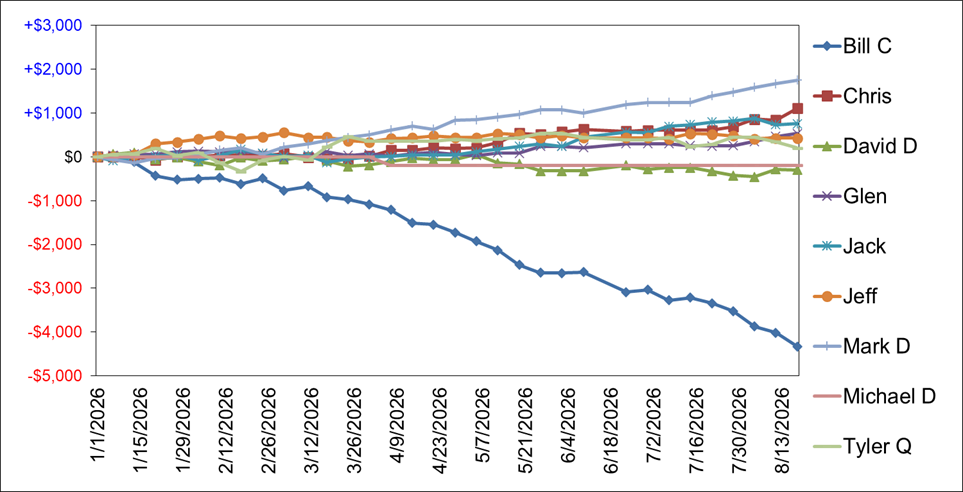
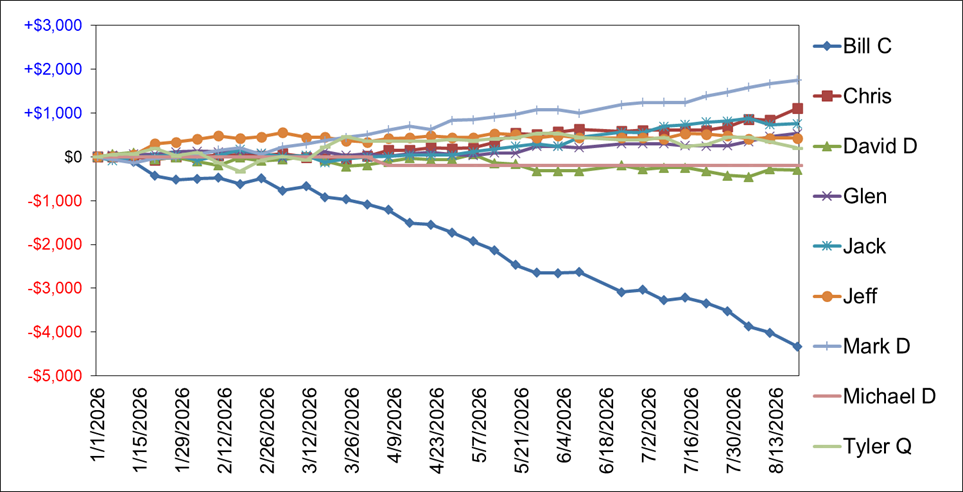
Add files via upload

diff --git a/attendance.html b/attendance.html
@@ -30,7 +30,7 @@
    <tr><td class="name" width=25%><a href="bill_c.html">Bill C</a></td>
       <td class="data1" width=25%>312 (26.6%)</td>
    <td class="data2" width=25%>25-Jun-2019</td>
-   <td class="data3" width=25%>18-Aug-2026</td></tr>
+   <td class="data3" width=25%>20-Aug-2026</td></tr>
    <tr><td class="name" width=25%><a href="bill_l.html">Bill L</a></td>
       <td class="data1" width=25%>452 (38.5%)</td>
    <td class="data2" width=25%>27-Jul-2004</td>
@@ -42,7 +42,7 @@
    <tr><td class="name" width=25%><a href="chris.html">Chris</a></td>
       <td class="data1" width=25%>514 (43.8%)</td>
    <td class="data2" width=25%>20-Aug-2013</td>
-   <td class="data3" width=25%>18-Aug-2026</td></tr>
+   <td class="data3" width=25%>20-Aug-2026</td></tr>
    <tr><td class="name" width=25%><a href="dave_ham.html">Dave Ham.</a></td>
       <td class="data1" width=25%>18 &nbsp;(1.5%)</td>
    <td class="data2" width=25%>07-Aug-2018</td>
@@ -58,7 +58,7 @@
    <tr><td class="name" width=25%><a href="david_d.html">David D</a></td>
       <td class="data1" width=25%>290 (24.7%)</td>
    <td class="data2" width=25%>05-Nov-2019</td>
-   <td class="data3" width=25%>18-Aug-2026</td></tr>
+   <td class="data3" width=25%>20-Aug-2026</td></tr>
    <tr><td class="name" width=25%><a href="frank.html">Frank</a></td>
       <td class="data1" width=25%>84 &nbsp;(7.2%)</td>
    <td class="data2" width=25%>03-Jan-2001</td>
@@ -66,7 +66,7 @@
    <tr><td class="name" width=25%><a href="glen.html">Glen</a></td>
       <td class="data1" width=25%>677 (57.7%)</td>
    <td class="data2" width=25%>16-Sep-2008</td>
-   <td class="data3" width=25%>18-Aug-2026</td></tr>
+   <td class="data3" width=25%>20-Aug-2026</td></tr>
    <tr><td class="name" width=25%><a href="grant.html">Grant</a></td>
       <td class="data1" width=25%>2 &nbsp;(0.2%)</td>
    <td class="data2" width=25%>09-Apr-2024</td>
@@ -82,7 +82,7 @@
    <tr><td class="name" width=25%><a href="jack.html">Jack</a></td>
       <td class="data1" width=25%>152 (12.9%)</td>
    <td class="data2" width=25%>15-Feb-2022</td>
-   <td class="data3" width=25%>18-Aug-2026</td></tr>
+   <td class="data3" width=25%>20-Aug-2026</td></tr>
    <tr><td class="name" width=25%><a href="jason.html">Jason</a></td>
       <td class="data1" width=25%>206 (17.5%)</td>
    <td class="data2" width=25%>15-Jul-2008</td>
@@ -126,7 +126,7 @@
    <tr><td class="name" width=25%><a href="mark_d.html">Mark D</a></td>
       <td class="data1" width=25%>1147 (97.7%)</td>
    <td class="data2" width=25%>03-Jan-2001</td>
-   <td class="data3" width=25%>18-Aug-2026</td></tr>
+   <td class="data3" width=25%>20-Aug-2026</td></tr>
    <tr><td class="name" width=25%><a href="mark_h.html">Mark H</a></td>
       <td class="data1" width=25%>324 (27.6%)</td>
    <td class="data2" width=25%>08-Jan-2001</td>
@@ -202,7 +202,7 @@
    <tr><td class="name" width=25%><a href="tyler_q.html">Tyler Q</a></td>
       <td class="data1" width=25%>146 (12.4%)</td>
    <td class="data2" width=25%>26-Jul-2022</td>
-   <td class="data3" width=25%>18-Aug-2026</td></tr>
+   <td class="data3" width=25%>20-Aug-2026</td></tr>
    <tr><td class="name" width=25%><a href="violet.html">Violet</a></td>
       <td class="data1" width=25%>10 &nbsp;(0.9%)</td>
    <td class="data2" width=25%>24-Jun-2008</td>

diff --git a/span.html b/span.html
@@ -27,7 +27,7 @@
 <tr valign="bottom"><th>&nbsp;</th><th>Best span</th><th>Worst span</th></tr>
    <tr><td class="name"><a href="bill_c.html">Bill C</a></td>
        <td class="data1">27-Jun-2023&nbsp;through&nbsp;05-Jul-2023&nbsp;&nbsp;&nbsp;&nbsp;(+$460.00)</td>
-       <td class="data2">28-Jan-2020&nbsp;through&nbsp;18-Aug-2026&nbsp;(&#8209;$27,258.00)</td></tr>
+       <td class="data2">28-Jan-2020&nbsp;through&nbsp;20-Aug-2026&nbsp;(&#8209;$27,258.00)</td></tr>
    <tr><td class="name"><a href="bill_l.html">Bill L</a></td>
        <td class="data1">05-Mar-2013&nbsp;through&nbsp;21-Jul-2015&nbsp;&nbsp;(+$3,045.00)</td>
        <td class="data2">29-Sep-2009&nbsp;through&nbsp;27-Feb-2013&nbsp;&nbsp;(&#8209;$1,819.00)</td></tr>
@@ -35,7 +35,7 @@
        <td class="data1">25-Jun-2024&nbsp;through&nbsp;27-Aug-2024&nbsp;&nbsp;&nbsp;&nbsp;(+$308.00)</td>
        <td class="data2">07-Jan-2025&nbsp;through&nbsp;11-Nov-2025&nbsp;&nbsp;&nbsp;&nbsp;(&#8209;$445.00)</td></tr>
    <tr><td class="name"><a href="chris.html">Chris</a></td>
-       <td class="data1">26-Nov-2013&nbsp;through&nbsp;18-Aug-2026&nbsp;&nbsp;(+$7,661.00)</td>
+       <td class="data1">26-Nov-2013&nbsp;through&nbsp;20-Aug-2026&nbsp;&nbsp;(+$7,661.00)</td>
        <td class="data2">08-Mar-2022&nbsp;through&nbsp;21-Nov-2022&nbsp;&nbsp;&nbsp;&nbsp;(&#8209;$635.00)</td></tr>
    <tr><td class="name"><a href="dave_ham.html">Dave Ham.</a></td>
        <td class="data1">28-Jan-2020&nbsp;through&nbsp;04-Feb-2020&nbsp;&nbsp;&nbsp;&nbsp;(+$169.00)</td>
@@ -53,7 +53,7 @@
        <td class="data1">09-Mar-2004&nbsp;through&nbsp;09-Mar-2004&nbsp;&nbsp;&nbsp;&nbsp;(+$150.00)</td>
        <td class="data2">12-Feb-2001&nbsp;through&nbsp;02-Mar-2004&nbsp;&nbsp;(&#8209;$1,287.75)</td></tr>
    <tr><td class="name"><a href="glen.html">Glen</a></td>
-       <td class="data1">10-Feb-2009&nbsp;through&nbsp;18-Aug-2026&nbsp;(+$17,378.00)</td>
+       <td class="data1">10-Feb-2009&nbsp;through&nbsp;20-Aug-2026&nbsp;(+$17,378.00)</td>
        <td class="data2">04-Apr-2023&nbsp;through&nbsp;23-May-2023&nbsp;&nbsp;&nbsp;&nbsp;(&#8209;$465.00)</td></tr>
    <tr><td class="name"><a href="grant.html">Grant</a></td>
        <td class="data1">09-Jul-2024&nbsp;through&nbsp;09-Jul-2024&nbsp;&nbsp;&nbsp;&nbsp;&nbsp;(&#8209;$85.00)</td>
@@ -98,7 +98,7 @@
        <td class="data1">01-Sep-2011&nbsp;through&nbsp;01-Sep-2011&nbsp;&nbsp;&nbsp;&nbsp;&nbsp;(&#8209;$99.00)</td>
        <td class="data2">25-Aug-2011&nbsp;through&nbsp;01-Sep-2011&nbsp;&nbsp;&nbsp;&nbsp;(&#8209;$257.00)</td></tr>
    <tr><td class="name"><a href="mark_d.html">Mark D</a></td>
-       <td class="data1">26-Mar-2001&nbsp;through&nbsp;18-Aug-2026&nbsp;(+$25,621.50)</td>
+       <td class="data1">26-Mar-2001&nbsp;through&nbsp;20-Aug-2026&nbsp;(+$25,621.50)</td>
        <td class="data2">11-Dec-2012&nbsp;through&nbsp;08-Aug-2013&nbsp;&nbsp;&nbsp;&nbsp;(&#8209;$488.00)</td></tr>
    <tr><td class="name"><a href="mark_h.html">Mark H</a></td>
        <td class="data1">11-Oct-2005&nbsp;through&nbsp;27-Dec-2005&nbsp;&nbsp;&nbsp;&nbsp;(+$330.00)</td>

diff --git a/bill_c.html b/bill_c.html
@@ -52,7 +52,7 @@
    <tr><td class="title"><a href="attendance.html">First Card Night attended</a></td>
        <td class="data">25-Jun-2019</td></tr>
    <tr><td class="title"><a href="attendance.html">Last Card Night attended</a></td>
-       <td class="data">18-Aug-2026</td></tr>
+       <td class="data">20-Aug-2026</td></tr>
    <tr><td class="title"><a href="miss.html">Longest streak without missing a Card Night</a></td>
        <td class="data">97</td></tr>
    <tr><td class="title_bottom"><a href="miss.html">Longest streak of missed Card Nights between attended Card Nights</a></td>
@@ -99,7 +99,7 @@
    <tr><td class="title"><a href="span.html">Best span</a></td>
       <td class="data">27-Jun-2023&nbsp;through&nbsp;05-Jul-2023 (+$460.00)</td></tr>
    <tr><td class="title_bottom"><a href="span.html">Worst span</a></td>
-       <td class="data_bottom">28-Jan-2020&nbsp;through&nbsp;18-Aug-2026 (&#8209;$27,258.00)</td></tr>
+       <td class="data_bottom">28-Jan-2020&nbsp;through&nbsp;20-Aug-2026 (&#8209;$27,258.00)</td></tr>
 
    <tr><td colspan=2>&nbsp;</td></tr>
    <tr><td class="title"><a href="last_10.html">Total for the last 10 Card Nights attended</a></td>
@@ -157,7 +157,7 @@
 <table><tr><td width=50% align="center" valign="top">
 <h3>Last 10 Card Nights</h3>
 <TABLE BORDER=1 bordercolor=black cellspacing=0 cellpadding=2>
-   <tr><td>18-Aug-2026</td><td align="right">&#8209;$319.00</td></tr>
+   <tr><td>20-Aug-2026</td><td align="right">&#8209;$319.00</td></tr>
    <tr><td>11-Aug-2026</td><td align="right">&#8209;$139.00</td></tr>
    <tr><td>04-Aug-2026</td><td align="right">&#8209;$354.00</td></tr>
    <tr><td>28-Jul-2026</td><td align="right">&#8209;$180.00</td></tr>

diff --git a/chris.html b/chris.html
@@ -52,7 +52,7 @@
    <tr><td class="title"><a href="attendance.html">First Card Night attended</a></td>
        <td class="data">20-Aug-2013</td></tr>
    <tr><td class="title"><a href="attendance.html">Last Card Night attended</a></td>
-       <td class="data">18-Aug-2026</td></tr>
+       <td class="data">20-Aug-2026</td></tr>
    <tr><td class="title"><a href="miss.html">Longest streak without missing a Card Night</a></td>
        <td class="data">41</td></tr>
    <tr><td class="title_bottom"><a href="miss.html">Longest streak of missed Card Nights between attended Card Nights</a></td>
@@ -97,7 +97,7 @@
 
    <tr><td colspan=2>&nbsp;</td></tr>
    <tr><td class="title"><a href="span.html">Best span</a></td>
-      <td class="data">26-Nov-2013&nbsp;through&nbsp;18-Aug-2026 (+$7,661.00)</td></tr>
+      <td class="data">26-Nov-2013&nbsp;through&nbsp;20-Aug-2026 (+$7,661.00)</td></tr>
    <tr><td class="title_bottom"><a href="span.html">Worst span</a></td>
        <td class="data_bottom">08-Mar-2022&nbsp;through&nbsp;21-Nov-2022 (&#8209;$635.00)</td></tr>
 
@@ -157,7 +157,7 @@
 <table><tr><td width=50% align="center" valign="top">
 <h3>Last 10 Card Nights</h3>
 <TABLE BORDER=1 bordercolor=black cellspacing=0 cellpadding=2>
-   <tr><td>18-Aug-2026</td><td align="right">+$270.00</td></tr>
+   <tr><td>20-Aug-2026</td><td align="right">+$270.00</td></tr>
    <tr><td>11-Aug-2026</td><td align="right">&#8209;$17.00</td></tr>
    <tr><td>04-Aug-2026</td><td align="right">+$167.00</td></tr>
    <tr><td>28-Jul-2026</td><td align="right">+$86.00</td></tr>

diff --git a/mark_d.html b/mark_d.html
@@ -52,7 +52,7 @@
    <tr><td class="title"><a href="attendance.html">First Card Night attended</a></td>
        <td class="data">03-Jan-2001</td></tr>
    <tr><td class="title"><a href="attendance.html">Last Card Night attended</a></td>
-       <td class="data">18-Aug-2026</td></tr>
+       <td class="data">20-Aug-2026</td></tr>
    <tr><td class="title"><a href="miss.html">Longest streak without missing a Card Night</a></td>
        <td class="data">493</td></tr>
    <tr><td class="title_bottom"><a href="miss.html">Longest streak of missed Card Nights between attended Card Nights</a></td>
@@ -97,7 +97,7 @@
 
    <tr><td colspan=2>&nbsp;</td></tr>
    <tr><td class="title"><a href="span.html">Best span</a></td>
-      <td class="data">26-Mar-2001&nbsp;through&nbsp;18-Aug-2026 (+$25,621.50)</td></tr>
+      <td class="data">26-Mar-2001&nbsp;through&nbsp;20-Aug-2026 (+$25,621.50)</td></tr>
    <tr><td class="title_bottom"><a href="span.html">Worst span</a></td>
        <td class="data_bottom">11-Dec-2012&nbsp;through&nbsp;08-Aug-2013 (&#8209;$488.00)</td></tr>
 
@@ -157,7 +157,7 @@
 <table><tr><td width=50% align="center" valign="top">
 <h3>Last 10 Card Nights</h3>
 <TABLE BORDER=1 bordercolor=black cellspacing=0 cellpadding=2>
-   <tr><td>18-Aug-2026</td><td align="right">+$85.00</td></tr>
+   <tr><td>20-Aug-2026</td><td align="right">+$85.00</td></tr>
    <tr><td>11-Aug-2026</td><td align="right">+$83.00</td></tr>
    <tr><td>04-Aug-2026</td><td align="right">+$110.00</td></tr>
    <tr><td>28-Jul-2026</td><td align="right">+$82.00</td></tr>

diff --git a/glen.html b/glen.html
@@ -52,7 +52,7 @@
    <tr><td class="title"><a href="attendance.html">First Card Night attended</a></td>
        <td class="data">16-Sep-2008</td></tr>
    <tr><td class="title"><a href="attendance.html">Last Card Night attended</a></td>
-       <td class="data">18-Aug-2026</td></tr>
+       <td class="data">20-Aug-2026</td></tr>
    <tr><td class="title"><a href="miss.html">Longest streak without missing a Card Night</a></td>
        <td class="data">37</td></tr>
    <tr><td class="title_bottom"><a href="miss.html">Longest streak of missed Card Nights between attended Card Nights</a></td>
@@ -97,7 +97,7 @@
 
    <tr><td colspan=2>&nbsp;</td></tr>
    <tr><td class="title"><a href="span.html">Best span</a></td>
-      <td class="data">10-Feb-2009&nbsp;through&nbsp;18-Aug-2026 (+$17,378.00)</td></tr>
+      <td class="data">10-Feb-2009&nbsp;through&nbsp;20-Aug-2026 (+$17,378.00)</td></tr>
    <tr><td class="title_bottom"><a href="span.html">Worst span</a></td>
        <td class="data_bottom">04-Apr-2023&nbsp;through&nbsp;23-May-2023 (&#8209;$465.00)</td></tr>
 
@@ -157,7 +157,7 @@
 <table><tr><td width=50% align="center" valign="top">
 <h3>Last 10 Card Nights</h3>
 <TABLE BORDER=1 bordercolor=black cellspacing=0 cellpadding=2>
-   <tr><td>18-Aug-2026</td><td align="right">+$69.00</td></tr>
+   <tr><td>20-Aug-2026</td><td align="right">+$69.00</td></tr>
    <tr><td>11-Aug-2026</td><td align="right">+$107.00</td></tr>
    <tr><td>04-Aug-2026</td><td align="right">+$98.00</td></tr>
    <tr><td>28-Jul-2026</td><td align="right">+$12.00</td></tr>

diff --git a/david_d.html b/david_d.html
@@ -53,7 +53,7 @@
    <tr><td class="title"><a href="attendance.html">First Card Night attended</a></td>
        <td class="data">05-Nov-2019</td></tr>
    <tr><td class="title"><a href="attendance.html">Last Card Night attended</a></td>
-       <td class="data">18-Aug-2026</td></tr>
+       <td class="data">20-Aug-2026</td></tr>
    <tr><td class="title"><a href="miss.html">Longest streak without missing a Card Night</a></td>
        <td class="data">45</td></tr>
    <tr><td class="title_bottom"><a href="miss.html">Longest streak of missed Card Nights between attended Card Nights</a></td>
@@ -158,7 +158,7 @@
 <table><tr><td width=50% align="center" valign="top">
 <h3>Last 10 Card Nights</h3>
 <TABLE BORDER=1 bordercolor=black cellspacing=0 cellpadding=2>
-   <tr><td>18-Aug-2026</td><td align="right">&#8209;$14.00</td></tr>
+   <tr><td>20-Aug-2026</td><td align="right">&#8209;$14.00</td></tr>
    <tr><td>11-Aug-2026</td><td align="right">+$173.00</td></tr>
    <tr><td>04-Aug-2026</td><td align="right">&#8209;$35.00</td></tr>
    <tr><td>28-Jul-2026</td><td align="right">&#8209;$94.00</td></tr>

diff --git a/card_night_results.html b/card_night_results.html
@@ -30,11 +30,11 @@
 
 Results for Card Night<BR>
 <!-- LAST NIGHT START -->
-Tuesday, August 18, 2026
+Thursday, August 20, 2026
 
 <TABLE BORDER=1 bordercolor=black cellspacing=0 cellpadding=2>
    <TR VALIGN="BOTTOM"><TH>PLAYER</TH>
-       <TH>08/18/26<BR>RESULT</TD>
+       <TH>08/20/26<BR>RESULT</TD>
        <TH>YEAR-TO-<BR>DATE</TD>
        <TH>CURRENT<BR>STREAK</TH>
        <TH>2026<BR>RECORD</TH>
@@ -384,7 +384,7 @@ No one won jackpot.
 <TD class=year><b><font color="BLACK">&nbsp;</font></b></TD>
 </TR>
 <TR ALIGN="RIGHT" VALIGN="BOTTOM" BGCOLOR="#FFF4F4">
-<TD class=year><a href=http://cardnight.wordpress.com/2026/08/18/card-night-18-aug-2026/><tt>18&#8209;Aug&#8209;2026</tt></a></TD>
+<TD class=year><a href=http://cardnight.wordpress.com/2026/08/20/card-night-20-aug-2026/><tt>20&#8209;Aug&#8209;2026</tt></a></TD>
 <TD class=year align="RIGHT"><font color="RED"><tt>&#8209;$319.00</tt></font></TD>
 <TD class=year bgcolor="#D7FFD7" align="RIGHT"><font color="GREEN"><tt><b>+$270.00</b></tt></font></TD>
 <TD class=year align="RIGHT"><font color="RED"><tt>&#8209;$14.00</tt></font></TD>

diff --git a/tyler_q.html b/tyler_q.html
@@ -53,7 +53,7 @@
    <tr><td class="title"><a href="attendance.html">First Card Night attended</a></td>
        <td class="data">26-Jul-2022</td></tr>
    <tr><td class="title"><a href="attendance.html">Last Card Night attended</a></td>
-       <td class="data">18-Aug-2026</td></tr>
+       <td class="data">20-Aug-2026</td></tr>
    <tr><td class="title"><a href="miss.html">Longest streak without missing a Card Night</a></td>
        <td class="data">15</td></tr>
    <tr><td class="title_bottom"><a href="miss.html">Longest streak of missed Card Nights between attended Card Nights</a></td>
@@ -158,7 +158,7 @@
 <table><tr><td width=50% align="center" valign="top">
 <h3>Last 10 Card Nights</h3>
 <TABLE BORDER=1 bordercolor=black cellspacing=0 cellpadding=2>
-   <tr><td>18-Aug-2026</td><td align="right">&#8209;$145.00</td></tr>
+   <tr><td>20-Aug-2026</td><td align="right">&#8209;$145.00</td></tr>
    <tr><td>11-Aug-2026</td><td align="right">&#8209;$107.00</td></tr>
    <tr><td>28-Jul-2026</td><td align="right">+$164.00</td></tr>
    <tr><td>21-Jul-2026</td><td align="right">+$59.00</td></tr>

diff --git a/jack.html b/jack.html
@@ -53,7 +53,7 @@
    <tr><td class="title"><a href="attendance.html">First Card Night attended</a></td>
        <td class="data">15-Feb-2022</td></tr>
    <tr><td class="title"><a href="attendance.html">Last Card Night attended</a></td>
-       <td class="data">18-Aug-2026</td></tr>
+       <td class="data">20-Aug-2026</td></tr>
    <tr><td class="title"><a href="miss.html">Longest streak without missing a Card Night</a></td>
        <td class="data">19</td></tr>
    <tr><td class="title_bottom"><a href="miss.html">Longest streak of missed Card Nights between attended Card Nights</a></td>
@@ -158,7 +158,7 @@
 <table><tr><td width=50% align="center" valign="top">
 <h3>Last 10 Card Nights</h3>
 <TABLE BORDER=1 bordercolor=black cellspacing=0 cellpadding=2>
-   <tr><td>18-Aug-2026</td><td align="right">+$23.00</td></tr>
+   <tr><td>20-Aug-2026</td><td align="right">+$23.00</td></tr>
    <tr><td>11-Aug-2026</td><td align="right">&#8209;$142.00</td></tr>
    <tr><td>04-Aug-2026</td><td align="right">+$53.00</td></tr>
    <tr><td>28-Jul-2026</td><td align="right">+$29.00</td></tr>
